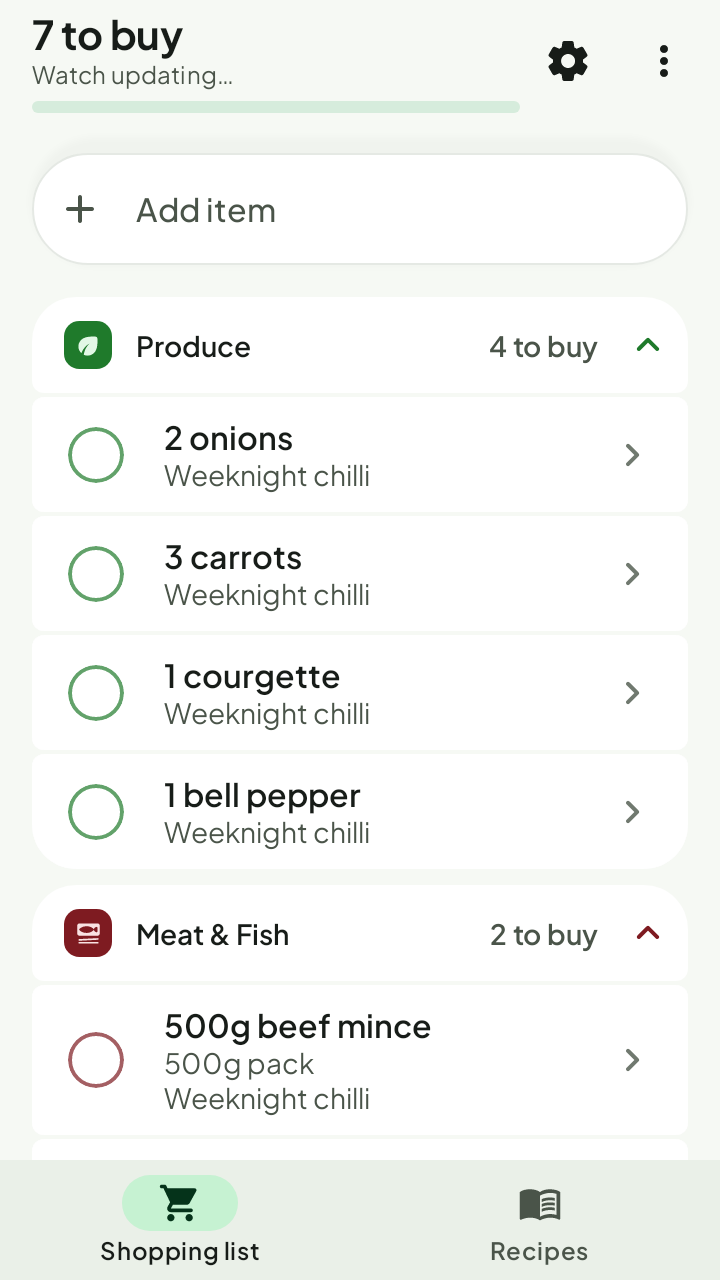
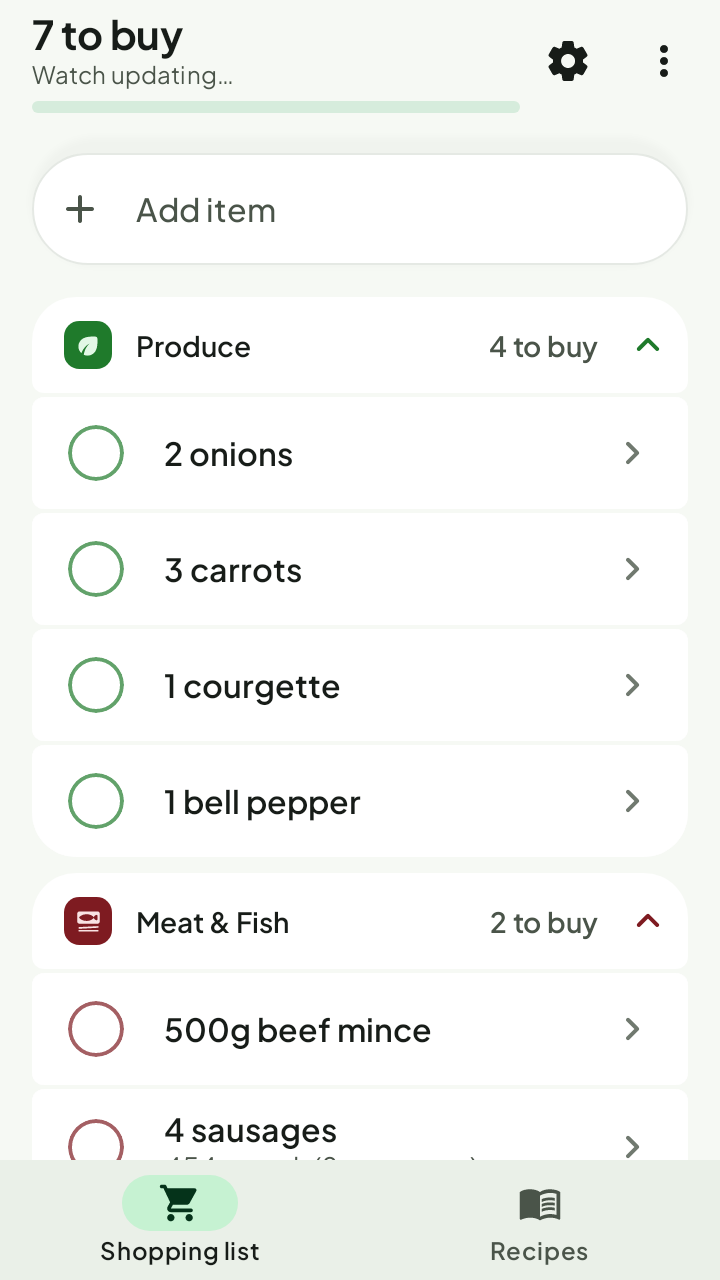
[AD.6] Leaner list rows
In store order a row is its amount and name; a second line only when it
says something new (a pack that differs, partly bought, needed, at home).
The recipe shows when grouped by recipe and is read by TalkBack.

Claude-Session: https://claude.ai/code/session_01XHyUGxiCMSHv96zvVnb1yh

diff --git a/android/app/src/test/java/com/robert4lyf/hypershop/ui/list/ListScreenTest.kt b/android/app/src/test/java/com/robert4lyf/hypershop/ui/list/ListScreenTest.kt
@@ -139,7 +139,7 @@ class ListScreenTest {
     }
 
     @Test
-    fun rowsReadAlikeAndShowTheirRecipe() {
+    fun rowsReadAlikeAndSayTheirRecipeOnlyToTalkBackInStoreOrder() {
         val rows =
             listOf(
                 ListRow(1, "milk", "700 ml milk", null, TickState.OPEN, AisleCode.DAIRY_EGGS, from = "Weeknight chilli"),
@@ -150,14 +150,34 @@ class ListScreenTest {
         compose.setContent { HyperShopTheme(dynamicColor = false) { ListScreen(ui, actions) } }
         compose.onNodeWithText("700 ml milk").assertExists()
         compose.onNodeWithText("1 more onion").assertExists()
-        compose.onNodeWithText("2 already bought · Weeknight chilli").assertExists()
-        compose.onNodeWithText("1 × 250 g block").assertExists()
-        // The pack note keeps its line; the recipe goes under it.
-        assertEquals(listOf("1 × 250 g block", "Weeknight chilli"), subLines(rows[2]))
+        // Step AD.6: in store order the recipe is not drawn; the bought count keeps its line.
+        compose.onNodeWithText("2 already bought", useUnmergedTree = true).assertExists()
+        compose.onAllNodesWithText("Weeknight chilli", substring = true, useUnmergedTree = true).assertCountEquals(0)
+        // TalkBack still says what it is for.
+        val said = compose.onNodeWithTag("item-1").fetchSemanticsNode().config[SemanticsProperties.ContentDescription]
+        assertEquals(listOf("700 ml milk, for Weeknight chilli"), said)
+        assertEquals(listOf("1 × 250 g block"), subLines(rows[2]))
+        // Grouped by recipe (the shared card): the recipe under the name, the pack note on a line of its own.
+        assertEquals(listOf("1 × 250 g block", "Weeknight chilli"), subLines(rows[2], showFrom = true))
+        assertEquals(listOf("2 already bought · Weeknight chilli"), subLines(rows[1], showFrom = true))
         // A capital at the start of the row only (UX review 9): mid-line capitals read as typos.
         assertEquals("Coriander", displayMain("coriander", "coriander"))
         assertEquals("2 leaves", displayMain("2 leaves", "leaf"))
         assertEquals("2 tins chopped tomatoes", displayMain("2 tins chopped tomatoes", "chopped tomatoes"))
+    }
+
+    @Test
+    fun aPackLineOnlyWhenItDiffersFromTheAmount() {
+        // Step AD.6: the usual pack under the amount only when it says something new.
+        assertEquals(null, leanSub("500g beef mince", "500g pack", "1 × 500 g pack", TickState.OPEN))
+        assertEquals(null, leanSub("250g unsalted butter", "250g block", "1 × 250 g block", TickState.OPEN))
+        assertEquals("4 pint bottle", leanSub("700ml milk", "4 pint bottle", "1 × 4 pint bottle", TickState.OPEN))
+        assertEquals("400g tin", leanSub("2 tins chopped tomatoes", "400g tin", "1 × 400 g tin", TickState.OPEN))
+        assertEquals("454g jar", leanSub("honey", "454g jar", "454 g jar", TickState.OPEN))
+        // Not the pack note: kept whatever the numbers.
+        assertEquals("2 already bought", leanSub("2 more onions", "2 already bought", "1 × 1 kg bag", TickState.PARTIAL))
+        assertEquals("150ml needed", leanSub("1 pot double cream", "150ml needed", "1 × 150 ml pot", TickState.OPEN))
+        assertEquals("200g at home", leanSub("200g rice", "200g at home", "1 × 1 kg bag", TickState.OPEN))
     }
 
     @Test

diff --git a/android/app/src/main/java/com/robert4lyf/hypershop/ui/list/ListScreen.kt b/android/app/src/main/java/com/robert4lyf/hypershop/ui/list/ListScreen.kt
@@ -298,7 +298,7 @@ private fun ListBody(
                             } else {
                                 Modifier.animateItem()
                             }.sectionItem(sectionPosition(i + 1, count), card)
-                        ListRowItem(r, actions, tile, lit = r.id in flash)
+                        ListRowItem(r, actions, tile, lit = r.id in flash, showFrom = true)
                     }
                 }
             }
@@ -723,13 +723,17 @@ internal fun displayMain(
 ): String = main.replaceFirstChar { it.uppercaseChar() }
 
 /**
- * The row's sub-lines: "2 already ticked" or the pack note, and the recipe the
- * item came from. The recipe joins the ticked count on one line ("2 already
- * ticked · Weeknight chilli"), but a pack note gets a line of its own.
+ * The row's sub-lines: "2 already bought" or the pack note. Step AD.6: the recipe an item came from is shown only when
+ * the list is grouped by recipe ([showFrom]; the shared card names its recipes); in store order it is in the row's
+ * TalkBack description and on the item's sheet. With both, it joins the bought count on one line ("2 already bought ·
+ * Weeknight chilli"), but a pack note gets a line of its own.
  */
-internal fun subLines(row: ListRow): List<String> {
+internal fun subLines(
+    row: ListRow,
+    showFrom: Boolean = false,
+): List<String> {
     val sub = row.sub
-    val from = row.from
+    val from = row.from?.takeIf { showFrom }
     return when {
         sub == null -> listOfNotNull(from)
         from == null -> listOf(sub)
@@ -751,6 +755,8 @@ private fun ListRowItem(
     tile: Modifier,
     /** Step AB: just added by hand: lit, then back to the card (seen, not announced). */
     lit: Boolean = false,
+    /** Step AD.6: the recipe under the name, in Group by recipe only. */
+    showFrom: Boolean = false,
 ) {
     val background by animateColorAsState(
         if (lit) MaterialTheme.colorScheme.primaryContainer else MaterialTheme.colorScheme.card,
@@ -803,6 +809,11 @@ private fun ListRowItem(
                 .semantics(mergeDescendants = true) {
                     testTag = "item-${row.id}"
                     stateDescription = state
+                    // Step AD.6: in store order the recipe is not drawn, but TalkBack still says what it is for.
+                    if (!showFrom && row.from != null) {
+                        contentDescription =
+                            listOfNotNull(displayMain(row.main, row.name), row.sub, "for ${row.from}").joinToString(", ")
+                    }
                 }.padding(start = 6.dp, top = 10.dp, bottom = 10.dp),
             verticalAlignment = Alignment.CenterVertically,
         ) {
@@ -822,7 +833,7 @@ private fun ListRowItem(
                         modifier = Modifier.testTag("set-aside-${row.id}"),
                     )
                 }
-                for (line in subLines(row)) {
+                for (line in subLines(row, showFrom)) {
                     Text(line, style = MaterialTheme.typography.bodyMedium, color = MaterialTheme.colorScheme.onSurfaceVariant)
                 }
             }

diff --git a/android/app/src/main/java/com/robert4lyf/hypershop/ui/list/ListViewModel.kt b/android/app/src/main/java/com/robert4lyf/hypershop/ui/list/ListViewModel.kt
@@ -480,7 +480,7 @@ class ListViewModel(
                     item.id,
                     item.displayName,
                     text.main,
-                    text.sub,
+                    leanSub(text.main, text.sub, entry?.packNote, state),
                     state,
                     item.aisle,
                     entry?.group,
@@ -1062,3 +1062,24 @@ private class Sources(
 
 private const val SHARED = "shared"
 private const val BY_HAND = "by-hand"
+
+/**
+ * Step AD.6: the row's second line, only when it adds something. The usual pack is left out when it is the amount
+ * already shown ("500g beef mince" over "500g pack"); it stays when it differs ("700ml milk" over "4 pint bottle"). What
+ * is partly bought, what a pack count stands for ("150ml needed") and what is at home always stay.
+ */
+internal fun leanSub(
+    main: String,
+    sub: String?,
+    packNote: String?,
+    state: TickState,
+): String? {
+    if (sub == null || packNote == null || state == TickState.PARTIAL) return sub
+    val pack = Display.compactUnits(packNote.removePrefix("1 × "))
+    if (sub != pack) return sub
+    val shown = LEADING_AMOUNT.find(Display.compactUnits(main))?.value ?: return sub
+    val packAmount = LEADING_AMOUNT.find(pack)?.value ?: return sub
+    return if (shown == packAmount) null else sub
+}
+
+private val LEADING_AMOUNT = Regex("""^(\d+(?:[.,/]\d+)?|[½¼¾⅓⅔⅛])(kg|g|ml|l|cl|oz|lb)?(?=\s|$)""")

diff --git a/PROGRESS.md b/PROGRESS.md
@@ -659,7 +659,14 @@ loop. No tabs, modes, settings or help text; no schema, protocol, golden-data or
   app shell at 360×640: at least four recipes' titles on screen above the tab bar, the fourth card's button just
   above it; cards 8 dp apart, were 12; screenshot `recipes-360x640.png`). Deleted with the band: `RecipeBackdrop`, its shade,
   `LIBRARY_BAND` and `Brand.OnHero`.
-- [ ] AD.6 Leaner list rows.
+- [x] AD.6 Leaner list rows. In store order a row is its amount and name, with a second line only when it adds
+  something: the usual pack when it differs from the amount (`leanSub`: "500g beef mince" over "500g pack" loses
+  the pack line; "700ml milk" over "4 pint bottle" keeps it), the partly-bought state, what a pack count stands for
+  ("150ml needed") and an amount at home. The recipe's name is not drawn in store order (it was a line of its own, or
+  joined the bought count); it stays in Group by recipe (and the shared card's titles) and on the item's sheet, and
+  TalkBack reads it in store order too ("700 ml milk, for Weeknight chilli"). The watch's rows are unchanged
+  (`Display.row` is shared; only the phone's list drops the line). Tests: `ListScreenTest` (store order hides the
+  recipe but says it to TalkBack; `subLines` with and without it; `leanSub`'s cases).
 - [ ] AD.7 Quiet watch status.
 - [ ] AD.8 The amount form opens filled.
 - [ ] AD.9 A link in Add item starts an import.

diff --git a/docs/design/simple-ux.md b/docs/design/simple-ux.md
@@ -77,6 +77,10 @@ On the review, lines still to go on the list are counted as **N to add** ("4 to 
   title with its pencil, then "4 to add · 1 at home" with the servings beside it (Step AD); when Claude failed or was skipped, one line with the
   reason, **Retry** and ✕. "N recipes ready to review" is a plain card. Every recipe card shows a small square beside its
   title: its photo cropped, or its art (Step AD; no photo band on cards).
+- In store order a row is its amount and name (Step AD); a second line only when it adds something: the usual pack
+  when it differs from the amount ("700 ml milk" over "4 pint bottle"; "500 g beef mince" has none), "2 already
+  bought", "150 ml needed", "200 g at home". The recipe it is for shows in Group by recipe and on its sheet; TalkBack
+  reads it in store order too ("700 ml milk, for Weeknight chilli").
 - An aisle's heading is one slim row (Step AC): its small icon, its name, "N to buy" and the collapse arrow, in the
   card's own colour. The review uses the same row (Step AD), counting **N to add** ("All at home", "Nothing to add"). Group labels (Vegetables, Salad…) show only in an aisle with six or more items, and always while
   arranging; the group order from Walking order applies either way.
